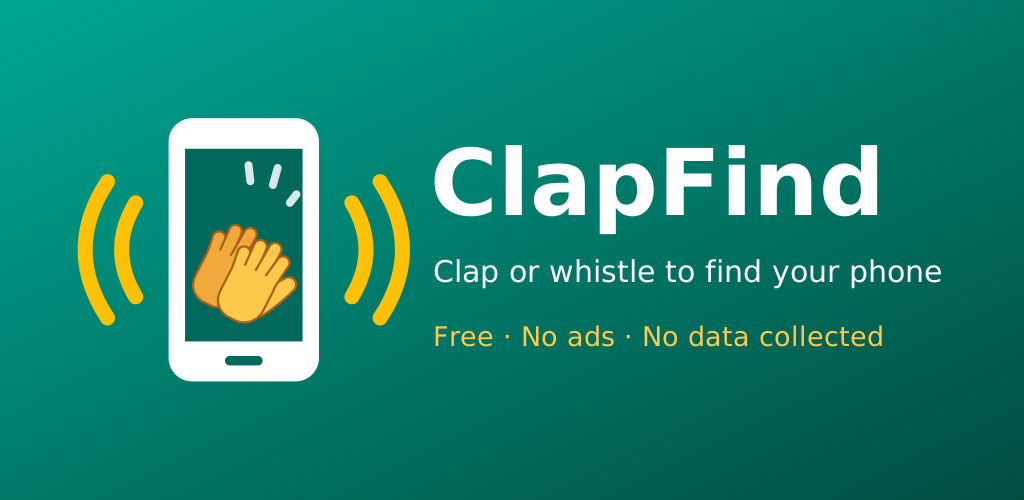
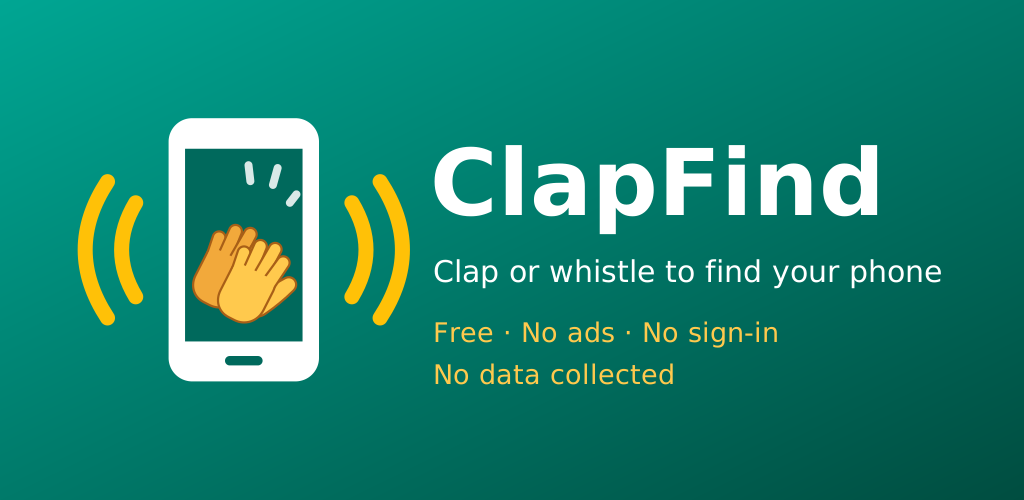
Say 'no sign-in' in the app, listing graphic and policy
Claude-Session: https://claude.ai/code/session_01HPigNfqUHeB4cc7mKKztUQ

Changed region(s): [[0.4062, 0.63, 0.875, 0.69], [0.4062, 0.72, 0.6562, 0.78]]

diff --git a/app/src/main/java/com/findbyclap/app/HelpActivity.java b/app/src/main/java/com/findbyclap/app/HelpActivity.java
@@ -77,7 +77,7 @@ public class HelpActivity extends Activity {
             "Your privacy",
             "ClapFind has no internet permission, so nothing can leave your phone. Sound is checked "
                     + "in memory for loudness and pitch only, then discarded. Nothing is recorded, saved "
-                    + "or shared. There are no ads, no accounts and no tracking."
+                    + "or shared. There are no ads, no sign-in and no tracking."
     };
 
     @Override

diff --git a/PRIVACY.md b/PRIVACY.md
@@ -15,7 +15,7 @@ ClapFind uses the microphone, including while the app is closed or the screen is
 ## What the app does not do
 
 - No personal data is collected, stored or shared.
-- No internet access, accounts, advertising, analytics or tracking.
+- No internet access, sign-in, accounts, advertising, analytics or tracking.
 - No location, contacts, photos or files are accessed.
 
 ## What is stored on your phone

diff --git a/README.md b/README.md
@@ -1,7 +1,7 @@
 # ClapFind
 
 Clap three times or whistle, and your Android phone rings, vibrates and flashes its torch.
-Free, no ads, no data collection. The app has no internet permission.
+Free, no ads, no sign-in, no data collection. The app has no internet permission.
 
 ## Get the installable APK (no tools needed on your computer)
 
